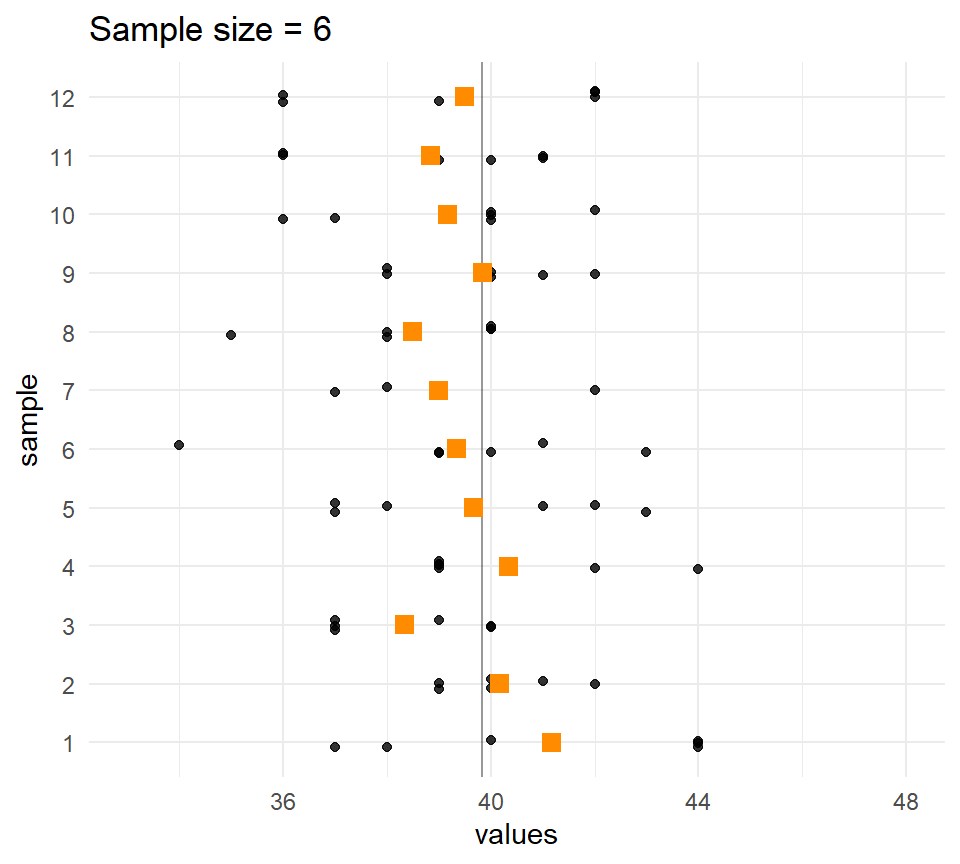
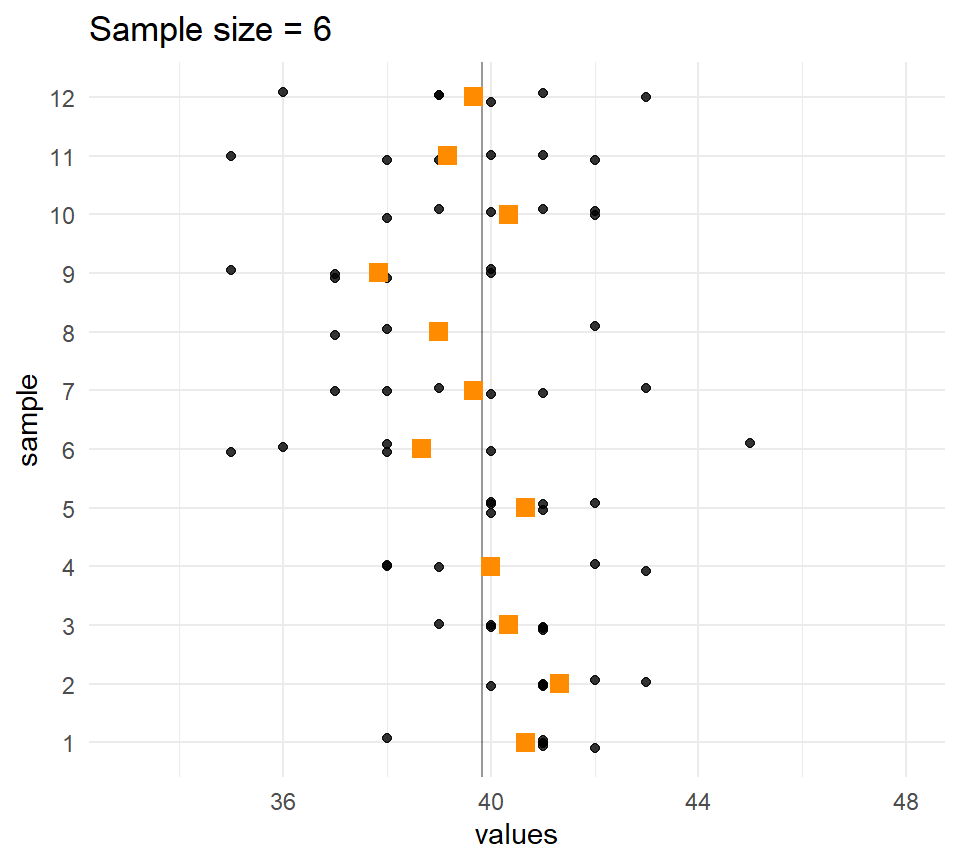
ch04 again

diff --git a/docs/slides/Chapter04.html b/docs/slides/Chapter04.html
@@ -489,7 +489,7 @@
 <div class="sourceCode cell-code" id="cb3"><pre class="sourceCode numberSource r number-lines code-with-copy"><code class="sourceCode r"><span id="cb3-1"><a href="#cb3-1"></a><span class="co"># A single sample</span></span>
 <span id="cb3-2"><a href="#cb3-2"></a><span class="fu">sample</span>(qd_long, <span class="at">size =</span> <span class="dv">6</span>)</span></code><button title="Copy to Clipboard" class="code-copy-button"><i class="bi"></i></button></pre></div>
 <div class="cell-output cell-output-stdout">
-<pre><code>[1] 39 42 38 37 40 36</code></pre>
+<pre><code>[1] 40 38 37 41 42 40</code></pre>
 </div>
 </div>
 </div>
@@ -499,25 +499,25 @@
 <span id="cb5-2"><a href="#cb5-2"></a><span class="fu">map</span>(<span class="dv">1</span><span class="sc">:</span><span class="dv">7</span>, <span class="sc">~</span> <span class="fu">sample</span>(qd_long, <span class="at">size =</span> <span class="dv">6</span>))</span></code><button title="Copy to Clipboard" class="code-copy-button"><i class="bi"></i></button></pre></div>
 <div class="cell-output cell-output-stdout">
 <pre><code>[[1]]
-[1] 40 40 40 40 41 41
+[1] 41 39 42 41 41 37
 
 [[2]]
-[1] 40 41 39 41 42 40
+[1] 40 37 43 39 41 41
 
 [[3]]
-[1] 42 43 41 43 38 37
+[1] 36 41 40 41 41 41
 
 [[4]]
-[1] 40 38 41 41 38 39
+[1] 41 41 38 36 46 41
 
 [[5]]
-[1] 42 46 39 38 39 42
+[1] 40 41 40 39 41 40
 
 [[6]]
-[1] 39 39 43 43 42 40
+[1] 37 38 41 35 40 39
 
 [[7]]
-[1] 40 39 40 41 40 43</code></pre>
+[1] 40 41 41 41 39 41</code></pre>
 </div>
 </div>
 </div>
@@ -543,21 +543,21 @@
 <pre><code># A tibble: 15 × 2
    sample values
    &lt;fct&gt;   &lt;int&gt;
- 1 1          39
- 2 1          39
- 3 1          42
- 4 1          39
- 5 1          41
- 6 1          41
- 7 2          36
- 8 2          40
+ 1 1          42
+ 2 1          40
+ 3 1          41
+ 4 1          41
+ 5 1          39
+ 6 1          40
+ 7 2          37
+ 8 2          42
  9 2          39
 10 2          38
-11 2          41
-12 2          44
+11 2          39
+12 2          43
 13 3          41
-14 3          40
-15 3          39</code></pre>
+14 3          41
+15 3          36</code></pre>
 </div>
 </div>
 </div>
@@ -588,16 +588,16 @@
 <pre><code># A tibble: 10 × 2
    sample  mean
    &lt;fct&gt;  &lt;dbl&gt;
- 1 1       40  
- 2 2       38.5
- 3 3       40.5
- 4 4       40  
- 5 5       38.2
- 6 6       39.5
- 7 7       40.8
- 8 8       39.7
- 9 9       39.8
-10 10      39.8</code></pre>
+ 1 1       40.5
+ 2 2       39.7
+ 3 3       38.8
+ 4 4       39.3
+ 5 5       38  
+ 6 6       40.2
+ 7 7       40  
+ 8 8       40  
+ 9 9       39.7
+10 10      38.5</code></pre>
 </div>
 </div>
 </div>
@@ -989,6 +989,7 @@ Is that convincing different from zero?</p>
 <p><span class="math inline">\(\ \ \ \ \ H_0: \mu = 0\)</span>, that is, the mean difference is zero.</p>
 <p>This can be done more easily:</p>
 <div class="cell" data-layout-align="center">
+<div class="sourceCode cell-code" id="cb37"><pre class="sourceCode numberSource r number-lines code-with-copy"><code class="sourceCode r"><span id="cb37-1"><a href="#cb37-1"></a><span class="fu">t.test</span>(diff)</span></code><button title="Copy to Clipboard" class="code-copy-button"><i class="bi"></i></button></pre></div>
 <div class="cell-output cell-output-stdout">
 <pre><code>
     One Sample t-test
@@ -1039,7 +1040,7 @@ sample estimates:
 <p>A hypothesis test has a certain <strong>power</strong> (probability) to reject the null hypothesis when it is false.</p>
 <p>The power of the t test can be evaluated using R for given effect size <span class="math inline">\(\delta\)</span></p>
 <div class="cell" data-layout-align="center">
-<div class="sourceCode cell-code" id="cb38"><pre class="sourceCode numberSource r number-lines code-with-copy"><code class="sourceCode r"><span id="cb38-1"><a href="#cb38-1"></a><span class="fu">power.t.test</span>(<span class="at">n =</span> <span class="dv">30</span>, <span class="at">delta =</span> <span class="dv">1</span>, <span class="at">sd =</span> <span class="dv">1</span>, <span class="at">sig.level =</span> <span class="fl">0.05</span>)</span></code><button title="Copy to Clipboard" class="code-copy-button"><i class="bi"></i></button></pre></div>
+<div class="sourceCode cell-code" id="cb39"><pre class="sourceCode numberSource r number-lines code-with-copy"><code class="sourceCode r"><span id="cb39-1"><a href="#cb39-1"></a><span class="fu">power.t.test</span>(<span class="at">n =</span> <span class="dv">30</span>, <span class="at">delta =</span> <span class="dv">1</span>, <span class="at">sd =</span> <span class="dv">1</span>, <span class="at">sig.level =</span> <span class="fl">0.05</span>)</span></code><button title="Copy to Clipboard" class="code-copy-button"><i class="bi"></i></button></pre></div>
 <div class="cell-output cell-output-stdout">
 <pre><code>
      Two-sample t test power calculation 
@@ -1053,7 +1054,7 @@ sample estimates:
 
 NOTE: n is number in *each* group</code></pre>
 </div>
-<div class="sourceCode cell-code" id="cb40"><pre class="sourceCode numberSource r number-lines code-with-copy"><code class="sourceCode r"><span id="cb40-1"><a href="#cb40-1"></a><span class="fu">power.t.test</span>(<span class="at">n =</span> <span class="dv">50</span>, <span class="at">delta =</span> <span class="dv">1</span>, <span class="at">sd =</span> <span class="dv">1</span>, <span class="at">sig.level =</span> <span class="fl">0.05</span>)</span></code><button title="Copy to Clipboard" class="code-copy-button"><i class="bi"></i></button></pre></div>
+<div class="sourceCode cell-code" id="cb41"><pre class="sourceCode numberSource r number-lines code-with-copy"><code class="sourceCode r"><span id="cb41-1"><a href="#cb41-1"></a><span class="fu">power.t.test</span>(<span class="at">n =</span> <span class="dv">50</span>, <span class="at">delta =</span> <span class="dv">1</span>, <span class="at">sd =</span> <span class="dv">1</span>, <span class="at">sig.level =</span> <span class="fl">0.05</span>)</span></code><button title="Copy to Clipboard" class="code-copy-button"><i class="bi"></i></button></pre></div>
 <div class="cell-output cell-output-stdout">
 <pre><code>
      Two-sample t test power calculation 
@@ -1100,8 +1101,8 @@ NOTE: n is number in *each* group</code></pre>
 <h2>Validity of equal variance assumption</h2>
 <p>Equal variance assumption is found plausible in the following output:</p>
 <div class="cell" data-layout-align="center">
-<div class="sourceCode cell-code" id="cb42"><pre class="sourceCode numberSource r number-lines code-with-copy"><code class="sourceCode r"><span id="cb42-1"><a href="#cb42-1"></a>tv <span class="ot">=</span> <span class="fu">read_csv</span>(<span class="st">"https://www.massey.ac.nz/~anhsmith/data/tv.csv"</span>)</span>
-<span id="cb42-2"><a href="#cb42-2"></a><span class="fu">bartlett.test</span>(TELETIME<span class="sc">~</span>SEX, <span class="at">data=</span>tv)</span></code><button title="Copy to Clipboard" class="code-copy-button"><i class="bi"></i></button></pre></div>
+<div class="sourceCode cell-code" id="cb43"><pre class="sourceCode numberSource r number-lines code-with-copy"><code class="sourceCode r"><span id="cb43-1"><a href="#cb43-1"></a>tv <span class="ot">=</span> <span class="fu">read_csv</span>(<span class="st">"https://www.massey.ac.nz/~anhsmith/data/tv.csv"</span>)</span>
+<span id="cb43-2"><a href="#cb43-2"></a><span class="fu">bartlett.test</span>(TELETIME<span class="sc">~</span>SEX, <span class="at">data=</span>tv)</span></code><button title="Copy to Clipboard" class="code-copy-button"><i class="bi"></i></button></pre></div>
 <div class="cell-output cell-output-stdout">
 <pre><code>
     Bartlett test of homogeneity of variances
@@ -1109,7 +1110,7 @@ NOTE: n is number in *each* group</code></pre>
 data:  TELETIME by SEX
 Bartlett's K-squared = 1.8482, df = 1, p-value = 0.174</code></pre>
 </div>
-<div class="sourceCode cell-code" id="cb44"><pre class="sourceCode numberSource r number-lines code-with-copy"><code class="sourceCode r"><span id="cb44-1"><a href="#cb44-1"></a>car<span class="sc">::</span><span class="fu">leveneTest</span>(TELETIME<span class="sc">~</span><span class="fu">factor</span>(SEX), <span class="at">data=</span>tv)</span></code><button title="Copy to Clipboard" class="code-copy-button"><i class="bi"></i></button></pre></div>
+<div class="sourceCode cell-code" id="cb45"><pre class="sourceCode numberSource r number-lines code-with-copy"><code class="sourceCode r"><span id="cb45-1"><a href="#cb45-1"></a>car<span class="sc">::</span><span class="fu">leveneTest</span>(TELETIME<span class="sc">~</span><span class="fu">factor</span>(SEX), <span class="at">data=</span>tv)</span></code><button title="Copy to Clipboard" class="code-copy-button"><i class="bi"></i></button></pre></div>
 <div class="cell-output cell-output-stdout">
 <pre><code>Levene's Test for Homogeneity of Variance (center = median)
       Df F value  Pr(&gt;F)  
@@ -1134,7 +1135,7 @@ Signif. codes:  0 '***' 0.001 '**' 0.01 '*' 0.05 '.' 0.1 ' ' 1</code></pre>
 <p>A sample survey of size 1000 has had 450 females.</p>
 <p>Can we treat the survey as unbiased?</p>
 <div class="cell" data-layout-align="center">
-<div class="sourceCode cell-code" id="cb46"><pre class="sourceCode numberSource r number-lines code-with-copy"><code class="sourceCode r"><span id="cb46-1"><a href="#cb46-1"></a><span class="fu">prop.test</span>(<span class="dv">450</span>, <span class="dv">1000</span>)</span></code><button title="Copy to Clipboard" class="code-copy-button"><i class="bi"></i></button></pre></div>
+<div class="sourceCode cell-code" id="cb47"><pre class="sourceCode numberSource r number-lines code-with-copy"><code class="sourceCode r"><span id="cb47-1"><a href="#cb47-1"></a><span class="fu">prop.test</span>(<span class="dv">450</span>, <span class="dv">1000</span>)</span></code><button title="Copy to Clipboard" class="code-copy-button"><i class="bi"></i></button></pre></div>
 <div class="cell-output cell-output-stdout">
 <pre><code>
     1-sample proportions test with continuity correction
@@ -1186,9 +1187,9 @@ probability of success
 <h2>Comparing several proportions</h2>
 <p>Fleiss (1981) <em>Statistical methods for rates and proportions</em> data on smokers in four group of patients</p>
 <div class="cell" data-layout-align="center">
-<div class="sourceCode cell-code" id="cb50"><pre class="sourceCode numberSource r number-lines code-with-copy"><code class="sourceCode r"><span id="cb50-1"><a href="#cb50-1"></a>smokers  <span class="ot">&lt;-</span> <span class="fu">c</span>( <span class="dv">83</span>, <span class="dv">90</span>, <span class="dv">129</span>, <span class="dv">70</span> )</span>
-<span id="cb50-2"><a href="#cb50-2"></a>patients <span class="ot">&lt;-</span> <span class="fu">c</span>( <span class="dv">86</span>, <span class="dv">93</span>, <span class="dv">136</span>, <span class="dv">82</span> )</span>
-<span id="cb50-3"><a href="#cb50-3"></a><span class="fu">prop.test</span>(smokers, patients)</span></code><button title="Copy to Clipboard" class="code-copy-button"><i class="bi"></i></button></pre></div>
+<div class="sourceCode cell-code" id="cb51"><pre class="sourceCode numberSource r number-lines code-with-copy"><code class="sourceCode r"><span id="cb51-1"><a href="#cb51-1"></a>smokers  <span class="ot">&lt;-</span> <span class="fu">c</span>( <span class="dv">83</span>, <span class="dv">90</span>, <span class="dv">129</span>, <span class="dv">70</span> )</span>
+<span id="cb51-2"><a href="#cb51-2"></a>patients <span class="ot">&lt;-</span> <span class="fu">c</span>( <span class="dv">86</span>, <span class="dv">93</span>, <span class="dv">136</span>, <span class="dv">82</span> )</span>
+<span id="cb51-3"><a href="#cb51-3"></a><span class="fu">prop.test</span>(smokers, patients)</span></code><button title="Copy to Clipboard" class="code-copy-button"><i class="bi"></i></button></pre></div>
 <div class="cell-output cell-output-stdout">
 <pre><code>
     4-sample test for equality of proportions without continuity correction
@@ -1532,7 +1533,7 @@ mean in group 1 mean in group 2
 <section id="another-form-of-test" class="slide level2">
 <h2>Another form of test</h2>
 <div class="cell" data-layout-align="center">
-<div class="sourceCode cell-code" id="cb62"><pre class="sourceCode numberSource r number-lines code-with-copy"><code class="sourceCode r"><span id="cb62-1"><a href="#cb62-1"></a><span class="fu">kruskal.test</span>(rangitikei<span class="sc">$</span>people<span class="sc">~</span>rangitikei<span class="sc">$</span>time)</span></code><button title="Copy to Clipboard" class="code-copy-button"><i class="bi"></i></button></pre></div>
+<div class="sourceCode cell-code" id="cb63"><pre class="sourceCode numberSource r number-lines code-with-copy"><code class="sourceCode r"><span id="cb63-1"><a href="#cb63-1"></a><span class="fu">kruskal.test</span>(rangitikei<span class="sc">$</span>people<span class="sc">~</span>rangitikei<span class="sc">$</span>time)</span></code><button title="Copy to Clipboard" class="code-copy-button"><i class="bi"></i></button></pre></div>
 <div class="cell-output cell-output-stdout">
 <pre><code>
     Kruskal-Wallis rank sum test
@@ -1542,7 +1543,7 @@ Kruskal-Wallis chi-squared = 7.2171, df = 1, p-value = 0.007221</code></pre>
 </div>
 </div>
 <div class="cell" data-layout-align="center">
-<div class="sourceCode cell-code" id="cb64"><pre class="sourceCode numberSource r number-lines code-with-copy"><code class="sourceCode r"><span id="cb64-1"><a href="#cb64-1"></a><span class="fu">wilcox.test</span>(rangitikei<span class="sc">$</span>people<span class="sc">~</span>rangitikei<span class="sc">$</span>time)</span></code><button title="Copy to Clipboard" class="code-copy-button"><i class="bi"></i></button></pre></div>
+<div class="sourceCode cell-code" id="cb65"><pre class="sourceCode numberSource r number-lines code-with-copy"><code class="sourceCode r"><span id="cb65-1"><a href="#cb65-1"></a><span class="fu">wilcox.test</span>(rangitikei<span class="sc">$</span>people<span class="sc">~</span>rangitikei<span class="sc">$</span>time)</span></code><button title="Copy to Clipboard" class="code-copy-button"><i class="bi"></i></button></pre></div>
 <div class="cell-output cell-output-stdout">
 <pre><code>
     Wilcoxon rank sum test with continuity correction
@@ -1558,8 +1559,8 @@ alternative hypothesis: true location shift is not equal to 0</code></pre>
 <p>A permutation (or randomisation) test is based on the idea of randomly permuting the observed data and then answering whether a hypothesis is negated or not.</p>
 <p>One sample hypothesis test example follows:</p>
 <div class="cell" data-layout-align="center">
-<div class="sourceCode cell-code" id="cb66"><pre class="sourceCode numberSource r number-lines code-with-copy"><code class="sourceCode r"><span id="cb66-1"><a href="#cb66-1"></a><span class="fu">library</span>(exactRankTests)</span>
-<span id="cb66-2"><a href="#cb66-2"></a><span class="fu">perm.test</span>(tv<span class="sc">$</span>TELETIME, <span class="at">null.value=</span><span class="dv">1500</span>)</span></code><button title="Copy to Clipboard" class="code-copy-button"><i class="bi"></i></button></pre></div>
+<div class="sourceCode cell-code" id="cb67"><pre class="sourceCode numberSource r number-lines code-with-copy"><code class="sourceCode r"><span id="cb67-1"><a href="#cb67-1"></a><span class="fu">library</span>(exactRankTests)</span>
+<span id="cb67-2"><a href="#cb67-2"></a><span class="fu">perm.test</span>(tv<span class="sc">$</span>TELETIME, <span class="at">null.value=</span><span class="dv">1500</span>)</span></code><button title="Copy to Clipboard" class="code-copy-button"><i class="bi"></i></button></pre></div>
 <div class="cell-output cell-output-stdout">
 <pre><code>
     1-sample Permutation Test
@@ -1574,7 +1575,7 @@ alternative hypothesis: true mu is not equal to 0</code></pre>
 <section id="two-group-comparison" class="slide level2">
 <h2>Two group comparison</h2>
 <div class="cell" data-layout-align="center">
-<div class="sourceCode cell-code" id="cb68"><pre class="sourceCode numberSource r number-lines code-with-copy"><code class="sourceCode r"><span id="cb68-1"><a href="#cb68-1"></a><span class="fu">perm.test</span>(TELETIME<span class="sc">~</span>SEX, <span class="at">distribution =</span><span class="st">'exact'</span>, <span class="at">data=</span>tv)</span></code><button title="Copy to Clipboard" class="code-copy-button"><i class="bi"></i></button></pre></div>
+<div class="sourceCode cell-code" id="cb69"><pre class="sourceCode numberSource r number-lines code-with-copy"><code class="sourceCode r"><span id="cb69-1"><a href="#cb69-1"></a><span class="fu">perm.test</span>(TELETIME<span class="sc">~</span>SEX, <span class="at">distribution =</span><span class="st">'exact'</span>, <span class="at">data=</span>tv)</span></code><button title="Copy to Clipboard" class="code-copy-button"><i class="bi"></i></button></pre></div>
 <div class="cell-output cell-output-stdout">
 <pre><code>
     2-sample Permutation Test
@@ -1586,8 +1587,8 @@ alternative hypothesis: true mu is not equal to 0</code></pre>
 </div>
 <p>Also using a linear model fit (cover later)</p>
 <div class="cell" data-layout-align="center">
-<div class="sourceCode cell-code" id="cb70"><pre class="sourceCode numberSource r number-lines code-with-copy"><code class="sourceCode r"><span id="cb70-1"><a href="#cb70-1"></a><span class="fu">library</span>(lmPerm)</span>
-<span id="cb70-2"><a href="#cb70-2"></a><span class="fu">summary</span>(<span class="fu">lmp</span>(TELETIME<span class="sc">~</span>SEX, <span class="at">data=</span>tv))</span></code><button title="Copy to Clipboard" class="code-copy-button"><i class="bi"></i></button></pre></div>
+<div class="sourceCode cell-code" id="cb71"><pre class="sourceCode numberSource r number-lines code-with-copy"><code class="sourceCode r"><span id="cb71-1"><a href="#cb71-1"></a><span class="fu">library</span>(lmPerm)</span>
+<span id="cb71-2"><a href="#cb71-2"></a><span class="fu">summary</span>(<span class="fu">lmp</span>(TELETIME<span class="sc">~</span>SEX, <span class="at">data=</span>tv))</span></code><button title="Copy to Clipboard" class="code-copy-button"><i class="bi"></i></button></pre></div>
 <div class="cell-output cell-output-stdout">
 <pre><code>[1] "Settings:  unique SS : numeric variables centered"</code></pre>
 </div>

diff --git a/docs/slides.html b/docs/slides.html
@@ -207,7 +207,7 @@ Chapter 3:<br>Probability Concepts &amp; Distributions
 </div>
 </a>
 </div>
-<div class="g-col-1" data-index="3" data-listing-file-modified-sort="1701813888185" data-listing-reading-time-sort="31">
+<div class="g-col-1" data-index="3" data-listing-file-modified-sort="1701814133016" data-listing-reading-time-sort="31">
 <a href="./slides/Chapter04.html" class="quarto-grid-link">
 <div class="quarto-grid-item card h-100 card-left">
 <p class="card-img-top">
